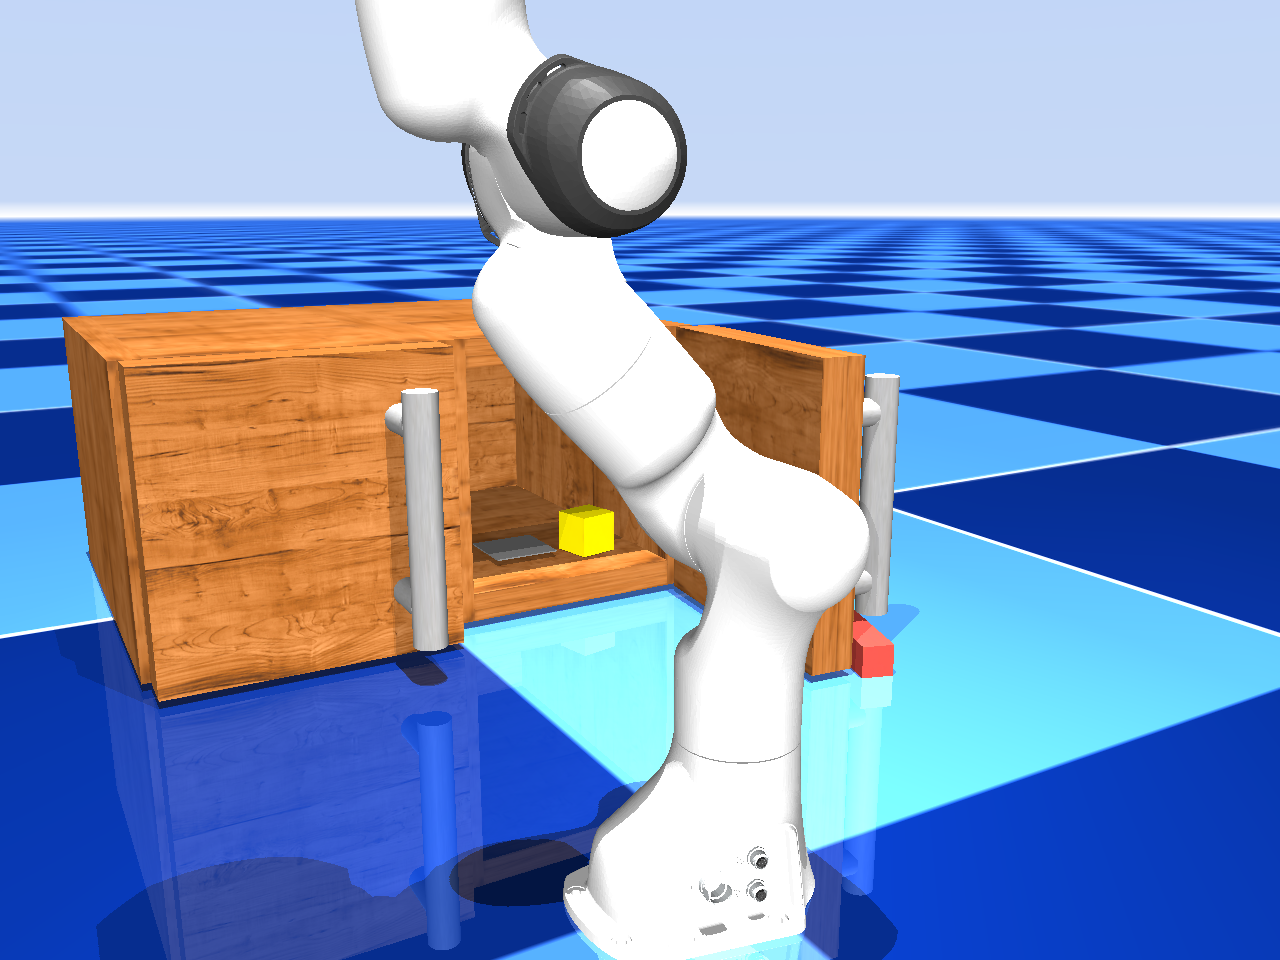
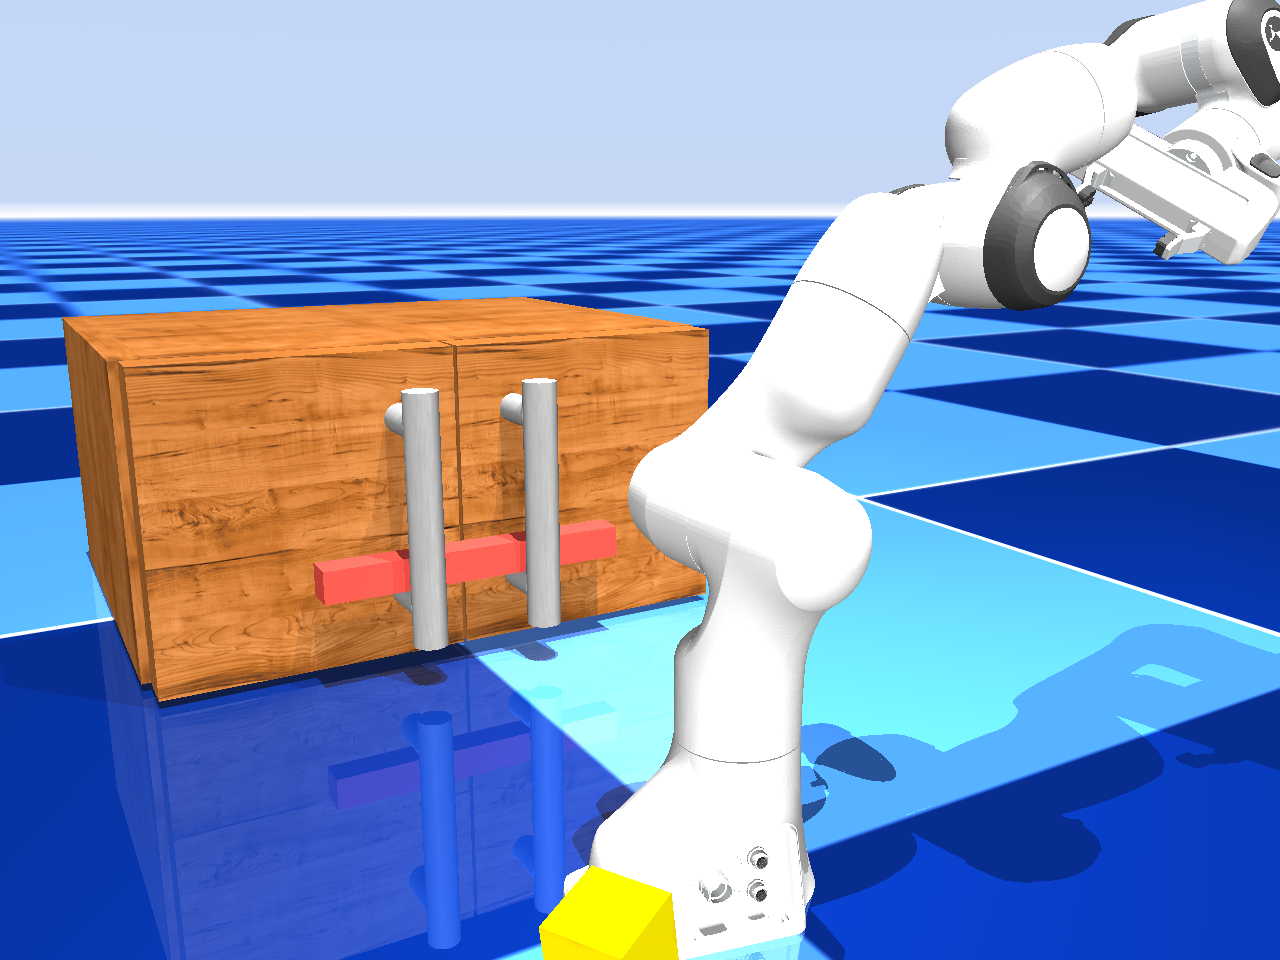
everything

diff --git a/integration/core.py b/integration/core.py
@@ -45,6 +45,8 @@ def get_observation(model, data):
 def environment_step(model, data, action):
   data.ctrl[:] = action
   mujoco.mj_step(model, data)
+  if ENV == "cabinet" and OPENED_CABINET:
+    data.qpos[15] = 1.57
   return get_observation(model, data)
 
 
@@ -55,7 +57,8 @@ def environment_reset(model, data):
 
 ENV = "cabinet"
 # ENV = "kitchen"
-SAVE_VIDEO = True
+SAVE_VIDEO = False
+OPENED_CABINET = False
 IS_COP = False
 
 REWARD_CNT = {
@@ -249,34 +252,43 @@ class Runner:
             # actions.append(agent.get_action(averaging_duration=control_timestep))
             self.actions.append(self.agent.get_action())
             # print(i)
+            satisfied = False
             for _ in range(self.repeats):
                 self.observations.append(environment_step(self.model, self.data, self.actions[-1]))
                 # print("hand xpos:", data.site("eeff").xpos)
                 if self.viewer is not None:
                     self.viewer.sync()
+
+                if cost_name is None:
+                    cost = self.agent.get_total_cost()
+                else:
+                    cost = self.agent.get_cost_term_values()[cost_name]
+                if cost < best_cost - 1e-2:
+                    best_cost = cost
+                    last_updated = 0
+                # agent.planner_step()
+                if num_steps > 20:
+                    if cost_limit is not None and cost <= cost_limit:
+                        satisfied = True
+
             if self.save_video:
                 img = self.mj_viewer.read_pixels(camid=0)
                 self.images.append(img)
                 # total_cost += agent.get_total_cost()
-            if cost_name is None:
-                cost = self.agent.get_total_cost()
-            else:
-                cost = self.agent.get_cost_term_values()[cost_name]
-            if cost < best_cost - 1e-2:
-                best_cost = cost
-                last_updated = 0
+            
             if num_steps % 20 == 0 and self.verbose:
                 # print(i, cost)
                 print(num_steps, f"{self.agent.get_total_cost():.2f} {cost:.2f}", self.agent.get_cost_term_values())
-            # agent.planner_step()
-            if num_steps > 20:
-                if cost_limit is not None and cost <= cost_limit:
-                    return True
+
+            if satisfied:
+                return True
+
             # observations.append(environment_step(model, data, actions[-1]))
             # viewer.render()
             num_steps += 1
             last_updated += 1
-            if last_updated > 20 and num_steps > step_limit:
+            # print(last_updated, best_cost)
+            if last_updated > 50 and num_steps > step_limit:
                 break
         return False
         
@@ -440,6 +452,17 @@ class Runner:
         cost_limit=0.02, cost_name="Joint Target", num_retries=3)
 
         return succ
+    
+    def run_cabinet_move_cube(self):
+        succ = self.run_with_retries("move cube", task_parameters={
+            "ReachObjectA": "hand",
+            "ReachObjectB": "target",
+            "Reach2ObjectA": "target",
+            "Reach2ObjectB": "right_target_position"
+        }, cost_weights={"Reach": 1.0, "Reach2": 1.0},
+        cost_limit=0.02, cost_name="Reach2", num_retries=3)
+
+        return succ
 
     def run_cabinet_dummy(self):
         succ = self.run_with_retries("remove stick", task_parameters={
@@ -460,7 +483,7 @@ class Runner:
             else:
                 cost_limit = 0.02
         succ = self.run_with_retries("custom", task_parameters=TASK_PARAMS, cost_weights=COST_WEIGHTS,
-        cost_limit=cost_limit, cost_name=PRIMARY_REWARD, num_retries=2 if ENV == "cabinet" else 3, step_limit=500)
+        cost_limit=cost_limit, cost_name=PRIMARY_REWARD, num_retries=3 if ENV == "cabinet" else 3, step_limit=500)
 
         return succ
     
@@ -474,6 +497,7 @@ class Runner:
                 run_fn = self.run_reset_no_obstruction
             elif self.task == "cabinet":
                 run_fn = self.run_reset_no_obstruction
+                # run_fn = self.run_cabinet_move_cube
             else:
                 raise NotImplementedError()
             

diff --git a/mjpc/tasks/panda/cabinet/cabinet.cc b/mjpc/tasks/panda/cabinet/cabinet.cc
@@ -99,7 +99,7 @@ void Cabinet::ResidualFn::Residual(const mjModel* model, const mjData* data,
   int joint_id = ReinterpretAsInt(parameters_[param_counter ++]);
   double joint_target = parameters_[param_counter ++];
   double *joint = SensorByName(model, data, joint_names[joint_id]);
-  residual[counter++] = *joint - joint_target;
+  residual[counter++] = std::max(joint_target - *joint, 0.0);
   // printf("%.2f %.2f\n", joint_target, *joint);
 
   // move away
@@ -219,6 +219,13 @@ void Cabinet::TransitionLocked(mjModel* model, mjData* data) {
   double residuals[100];
   residual_.Residual(model, data, residuals);
   // double bring_dist = (mju_norm3(residuals+3) + mju_norm3(residuals+6)) / 2;
+
+  // data->qpos[15] = 1.57;
+
+  // for (int i = 0; i < model->nq; i ++) {
+  //   std::cout << data->qpos[i] << ", ";
+  // }
+  // std::cout << std::endl;
 
   // reset:
   // if (data->time > 0 && bring_dist < .015) {

diff --git a/integration/run_step.py b/integration/run_step.py
@@ -5,7 +5,6 @@ set_env('cabinet')
 runner_init()
 
 reset_reward()
-minimize_l2_distance_reward("palm", "yellow_cube")
-minimize_l2_distance_reward("yellow_cube", "wooden_cabinet_inside", primary_reward=True)
-set_joint_fraction_reward("wooden_cabinet", 1)
+minimize_l2_distance_reward("palm", "wooden_cabinet_handle")
+set_joint_fraction_reward("wooden_cabinet", 1.0, primary_reward=True)
 execute_plan()
